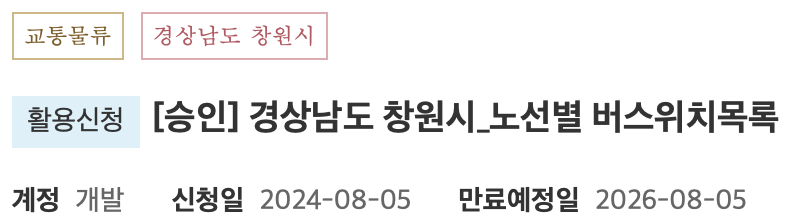
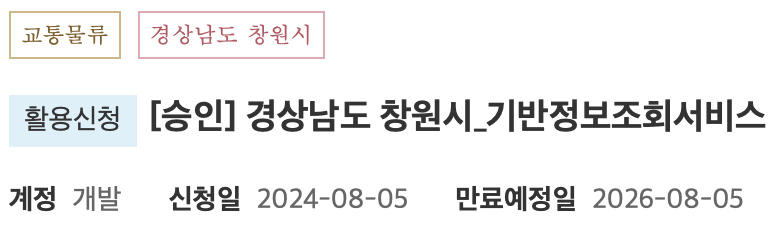
(edit) img_set

diff --git a/_posts/2025-05-15-python-busapi.md b/_posts/2025-05-15-python-busapi.md
@@ -33,7 +33,7 @@ tags: [python, data.go.kr]
 데이터마다 지원하는 형식이 차이가 있기 때문에 [`OpenAPI`, `파일데이터`] 본인의 상황에 맞춰서 사용하면 된다.<br>
 
 ### 2. 필요한 데이터
-{% include image-path.html cols=4 start=2 end=5 %}
+{% include image-path.html cols=1 start=2 end=2 %}
 
 1. 버스 및 정류소 데이터 - [경상남도 창원시_기반정보조회서비스](https://www.data.go.kr/tcs/dss/selectApiDataDetailView.do?publicDataPk=15000096)
 
@@ -63,6 +63,8 @@ tags: [python, data.go.kr]
 
 <br>
 
+{% include image-path.html cols=1 start=3 end=3 %}
+
 2. 버스 도착 정보 - [경상남도 창원시_버스도착정보조회](https://www.data.go.kr/tcs/dss/selectApiDataDetailView.do?publicDataPk=15000386)
 
 - 정류소버스도착정보 - [2-1]busarrives.json
@@ -77,6 +79,8 @@ tags: [python, data.go.kr]
 > UPDN_DIR: 상/하행 구분 (0: 하행, 1: 상행)  
 
 <br>
+
+{% include image-path.html cols=1 start=4 end=4 %}
 
 3. 버스정류소목록 - [경상남도 창원시_노선버스위치정류소](https://www.data.go.kr/tcs/dss/selectApiDataDetailView.do?publicDataPk=15000254)
 
@@ -93,6 +97,8 @@ tags: [python, data.go.kr]
 > EVENT_CD: 이벤트 코드 (17: 진입, 18: 진출)  
 
 <br>
+
+{% include image-path.html cols=1 start=5 end=5 %}
 
 4. 현재 운행 버스위치 - [경상남도 창원시_노선별 버스위치목록](https://www.data.go.kr/tcs/dss/selectApiDataDetailView.do?publicDataPk=15000416)
 
